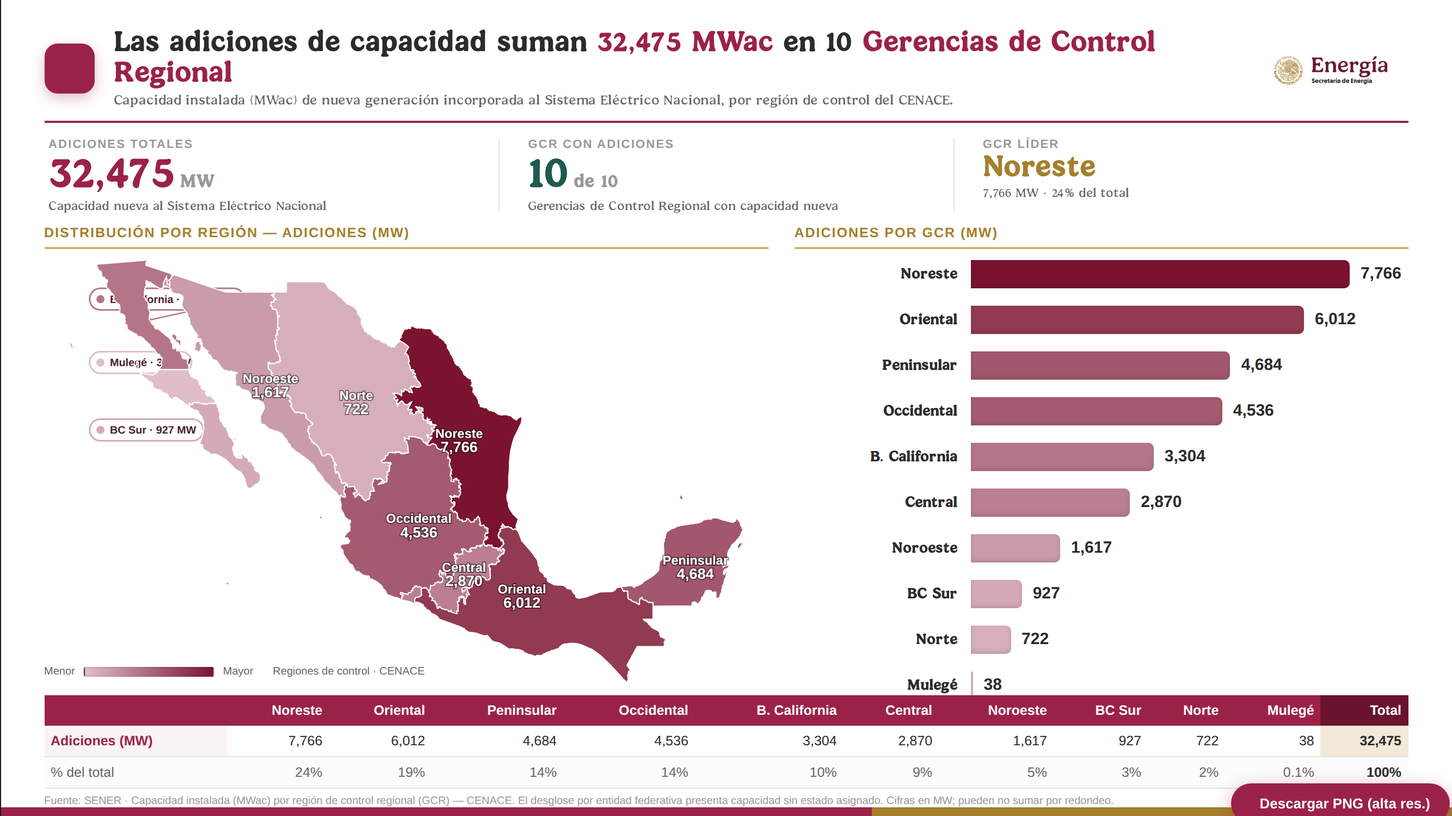
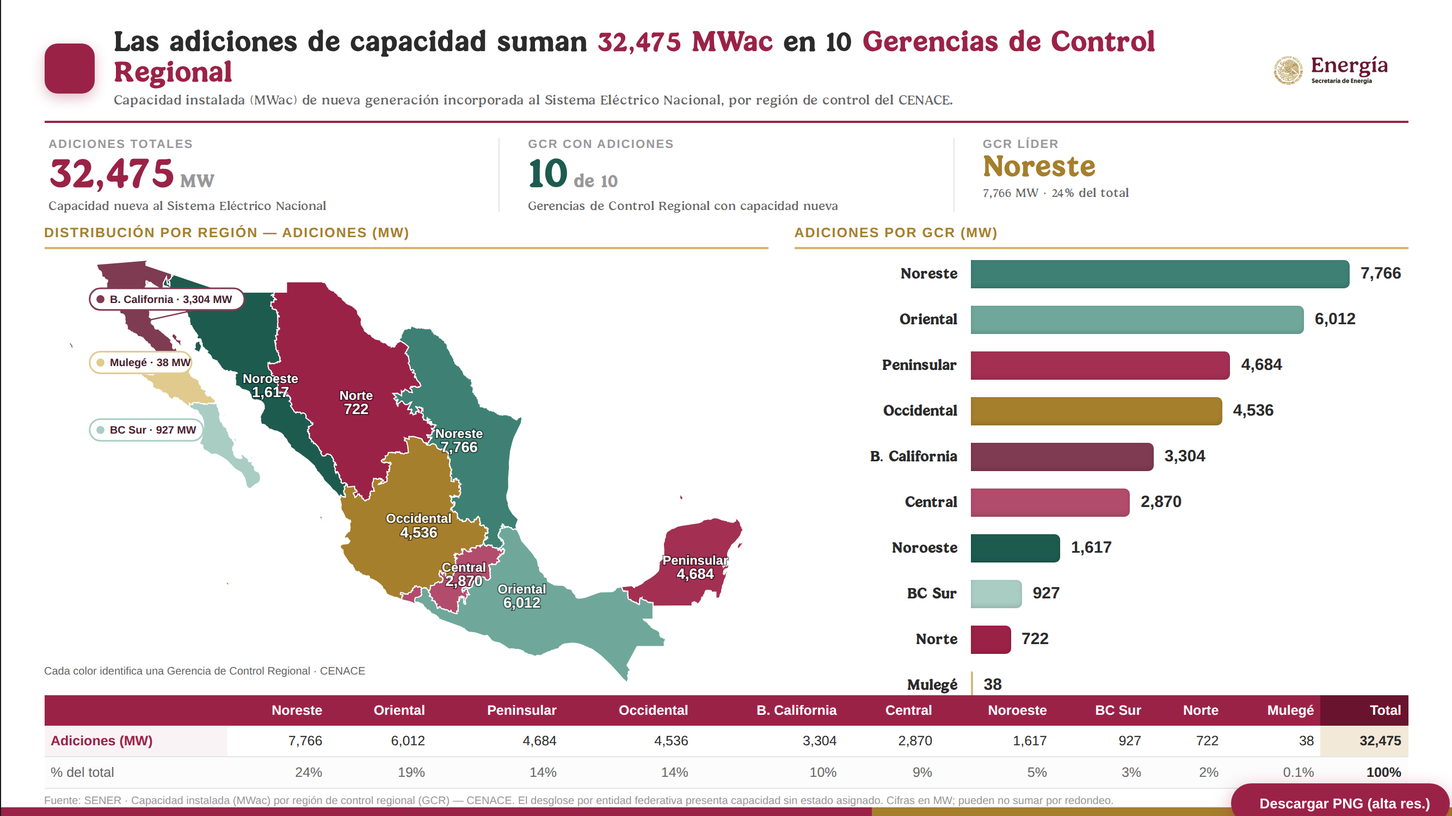
Mapa GCR: colores de expansión renovables + chips al frente
- Colores categóricos fijos por Gerencia (mismos del mapa de
  EXPANSION-RENOVABLES.html) en mapa y barras, en lugar del degradado.
- Reordena el SVG para que los chips (B. California, Mulegé, BC Sur) se
  dibujen encima de las formas y no queden ocultos.
- Leyenda ajustada a esquema categórico.

Claude-Session: https://claude.ai/code/session_018Fe77w2VGGn9GHfxE4yPpH

diff --git a/ADICIONES-CAPACIDAD-GCR.html b/ADICIONES-CAPACIDAD-GCR.html
@@ -338,11 +338,7 @@
         <div class="panel">
           <div class="panel-title">Distribución por región — Adiciones (MW)</div>
           <div class="map-wrap">
-            <svg viewBox="0 0 1000 626.3" class="cenace-map" xmlns="http://www.w3.org/2000/svg" preserveAspectRatio="xMidYMid meet">
-<line id="ld-bcalifornia" x1="117.8" y1="89.2" x2="259.4" y2="58.0" stroke="#C9CCD1" stroke-width="2"/><circle id="dt-bcalifornia" cx="117.8" cy="89.2" r="3.6" fill="#C9CCD1"/><g pointer-events="none"><rect id="bx-bcalifornia" x="30.0" y="42.0" width="229.4" height="32" rx="16" fill="#ffffff" stroke="#C9CCD1" stroke-width="2.4"/><circle id="sw-bcalifornia" cx="46.0" cy="58.0" r="6" fill="#C9CCD1"/><text id="ct-bcalifornia" x="60.0" y="63.5" font-size="16" font-weight="700" fill="#49222f" font-family="Outfit,sans-serif">B. California · — MW</text></g>
-<line id="ld-mulege" x1="165.5" y1="193.4" x2="181.1" y2="152.0" stroke="#C9CCD1" stroke-width="2"/><circle id="dt-mulege" cx="165.5" cy="193.4" r="3.6" fill="#C9CCD1"/><g pointer-events="none"><rect id="bx-mulege" x="30.0" y="136.0" width="151.1" height="32" rx="16" fill="#ffffff" stroke="#C9CCD1" stroke-width="2.4"/><circle id="sw-mulege" cx="46.0" cy="152.0" r="6" fill="#C9CCD1"/><text id="ct-mulege" x="60.0" y="157.5" font-size="16" font-weight="700" fill="#49222f" font-family="Outfit,sans-serif">Mulegé · — MW</text></g>
-<line id="ld-bcsur" x1="228.1" y1="263.8" x2="198.5" y2="252.0" stroke="#C9CCD1" stroke-width="2"/><circle id="dt-bcsur" cx="228.1" cy="263.8" r="3.6" fill="#C9CCD1"/><g pointer-events="none"><rect id="bx-bcsur" x="30.0" y="236.0" width="168.5" height="32" rx="16" fill="#ffffff" stroke="#C9CCD1" stroke-width="2.4"/><circle id="sw-bcsur" cx="46.0" cy="252.0" r="6" fill="#C9CCD1"/><text id="ct-bcsur" x="60.0" y="257.5" font-size="16" font-weight="700" fill="#49222f" font-family="Outfit,sans-serif">BC Sur · — MW</text></g>
-<path class="region" id="rg-noreste" data-r="Noreste" d="M530.3,274.3 L534.7,274.9 L536.6,273.1 L538.5,272.3 L542.5,273.6 L543.5,274.8 L545.2,278.8 L546.7,279.9 L550.6,281.6 L552.3,280.2 L554.1,281.1 L555.6,281.1 L557.4,284.4 L558.4,283.3 L561.8,286.4 L561.9,288.3 L560.8,292.5 L562.4,292.6 L562.1,294.1 L561.5,294.3 L564.5,295.4 L564.4,296.2 L563.8,296.2 L564.3,297.8 L563.1,303.0 L563.6,303.1 L563.8,304.1 L563.4,305.7 L564.2,305.8 L564.1,306.6 L565.1,307.2 L565.1,309.3 L566.1,311.0 L566.7,310.7 L566.6,312.1 L565.7,312.9 L565.3,315.1 L566.0,315.2 L566.3,317.1 L565.2,316.5 L564.5,320.2 L566.4,322.1 L565.7,328.0 L570.3,329.1 L570.6,328.0 L569.3,328.2 L569.0,325.6 L571.1,325.7 L572.0,324.0 L574.3,324.1 L573.6,326.1 L577.5,326.7 L577.1,327.8 L577.2,330.4 L578.6,330.5 L578.6,331.4 L580.4,332.4 L578.9,333.3 L578.6,334.8 L577.7,334.3 L578.0,335.8 L577.3,335.5 L577.3,337.6 L579.4,337.5 L579.9,340.8 L577.6,342.9 L580.1,344.1 L579.1,348.1 L577.7,350.0 L577.1,351.9 L576.0,350.1 L574.7,351.1 L573.4,349.9 L572.9,350.8 L570.7,348.6 L570.1,349.2 L570.9,351.5 L570.5,352.0 L569.0,350.9 L567.6,351.9 L565.7,349.8 L562.9,349.8 L564.8,350.2 L566.7,354.8 L566.6,355.8 L565.4,356.6 L566.1,358.9 L568.1,360.2 L567.8,360.7 L568.2,360.8 L569.9,358.4 L571.2,359.2 L571.7,360.9 L570.5,361.6 L570.9,362.3 L569.7,362.1 L570.7,364.0 L569.9,364.3 L570.3,364.8 L570.0,365.3 L566.9,367.0 L567.6,367.4 L567.0,368.0 L565.5,368.4 L565.9,368.9 L565.1,370.4 L566.5,370.9 L567.5,370.6 L568.3,372.6 L569.8,374.1 L571.3,372.8 L571.7,373.2 L572.0,372.9 L573.1,374.8 L574.2,374.7 L575.2,376.6 L575.0,378.6 L575.7,380.5 L574.9,380.9 L575.5,381.7 L575.4,382.9 L576.2,382.3 L578.4,384.4 L578.8,385.6 L582.2,385.5 L581.9,386.2 L582.5,386.5 L582.1,387.0 L582.6,388.1 L582.6,387.7 L583.8,388.1 L585.1,387.2 L586.0,387.1 L585.9,387.6 L586.6,387.7 L587.5,387.2 L587.4,386.7 L588.7,385.6 L588.8,383.7 L591.5,384.0 L592.6,386.1 L595.0,388.2 L595.0,388.8 L596.5,389.2 L597.6,388.2 L598.6,388.1 L599.5,388.8 L600.2,386.3 L600.6,386.1 L600.5,384.7 L602.7,385.2 L603.7,384.2 L603.5,382.7 L604.7,382.4 L605.5,380.6 L606.4,380.5 L606.9,382.0 L608.3,383.3 L607.9,385.1 L609.4,390.4 L609.4,391.1 L608.3,391.1 L608.0,392.2 L609.1,392.5 L608.3,392.6 L608.5,392.9 L609.1,393.6 L609.7,393.4 L611.0,394.0 L614.1,392.9 L616.1,397.4 L616.9,397.1 L617.9,398.0 L618.9,398.1 L619.0,397.4 L618.4,396.9 L618.7,397.0 L620.4,398.2 L620.7,399.1 L620.0,400.7 L619.2,400.6 L620.6,403.2 L620.1,403.9 L620.3,405.2 L619.7,405.4 L619.8,404.7 L616.8,404.5 L617.2,405.9 L615.5,408.7 L616.3,409.7 L616.2,410.9 L617.7,411.5 L619.4,410.5 L620.2,412.5 L617.8,413.3 L618.2,414.0 L617.4,414.7 L617.3,413.5 L615.9,413.4 L615.8,415.2 L614.6,415.3 L613.5,419.2 L614.3,419.8 L614.0,420.8 L615.0,420.9 L615.2,421.9 L615.7,422.1 L615.5,423.2 L617.3,424.0 L617.8,423.8 L618.3,424.6 L619.5,423.9 L619.5,423.0 L621.2,422.5 L622.2,423.1 L622.9,422.7 L624.2,423.8 L625.0,423.0 L626.4,423.0 L626.6,425.6 L627.6,426.4 L631.7,427.0 L632.3,427.6 L633.7,426.7 L634.9,429.0 L636.0,427.6 L638.3,427.9 L638.2,426.5 L639.9,426.4 L641.7,423.2 L643.5,422.4 L643.6,421.4 L644.3,421.0 L644.3,420.2 L643.3,419.8 L643.7,419.7 L643.0,417.7 L643.3,416.4 L641.7,414.7 L641.2,416.6 L640.1,416.7 L639.8,415.9 L640.2,414.4 L639.2,414.0 L639.8,412.9 L639.4,412.4 L637.6,412.5 L637.7,411.8 L636.5,411.8 L636.1,410.6 L636.8,409.9 L636.0,409.8 L635.5,408.2 L636.0,407.1 L636.9,406.6 L636.4,405.8 L636.7,405.0 L637.2,405.1 L637.6,403.2 L638.0,402.5 L638.8,402.9 L639.1,402.3 L639.2,400.7 L638.1,399.7 L640.4,398.0 L642.5,398.0 L643.0,397.6 L641.7,396.4 L642.2,395.7 L640.3,395.1 L641.1,394.1 L641.7,394.2 L641.8,391.6 L643.6,392.7 L643.9,395.0 L644.8,394.7 L645.9,395.5 L646.1,396.4 L645.1,396.3 L645.2,397.2 L646.6,396.8 L647.8,395.4 L648.5,395.9 L649.4,395.6 L649.5,396.1 L650.4,395.3 L653.2,397.0 L655.4,397.3 L655.6,398.1 L657.6,400.0 L660.7,398.8 L662.4,399.9 L663.2,399.0 L664.0,400.2 L662.3,396.2 L662.2,393.5 L665.0,386.0 L665.1,384.1 L657.7,377.0 L652.4,368.6 L650.6,362.9 L650.7,360.1 L648.8,355.1 L648.4,349.2 L651.3,338.3 L651.2,322.5 L652.4,308.1 L652.2,300.9 L654.1,282.9 L657.2,270.5 L659.4,263.5 L669.8,242.1 L670.8,236.4 L670.9,232.9 L669.9,232.6 L667.7,233.2 L666.5,232.8 L666.7,233.6 L665.0,234.2 L664.5,233.8 L663.6,234.5 L664.2,235.2 L663.7,235.5 L664.1,235.6 L663.7,236.9 L662.7,237.0 L662.5,236.1 L662.1,236.9 L661.2,236.3 L661.1,235.4 L659.8,235.5 L659.7,234.9 L659.0,235.3 L658.5,233.8 L657.1,233.7 L657.6,233.0 L657.2,233.4 L657.1,232.7 L656.5,232.9 L655.4,231.7 L656.0,231.4 L655.0,231.1 L655.3,230.6 L654.4,230.7 L654.6,230.1 L653.6,230.3 L653.6,230.7 L653.1,230.1 L652.8,230.6 L651.5,230.5 L651.2,229.7 L650.9,230.4 L650.2,229.3 L649.2,229.8 L648.3,229.5 L648.3,229.0 L648.1,229.4 L646.0,229.1 L646.1,229.5 L645.0,229.6 L644.5,229.1 L643.0,229.1 L642.7,230.0 L641.5,230.1 L641.4,228.9 L641.0,229.4 L639.8,228.8 L639.3,229.7 L638.3,228.8 L638.3,229.3 L637.7,229.5 L634.8,227.8 L635.5,227.3 L634.6,227.2 L634.3,227.8 L633.3,226.6 L633.3,225.7 L632.9,226.2 L632.6,225.5 L631.8,226.0 L630.0,224.6 L629.9,223.7 L628.8,223.8 L628.7,224.5 L628.6,224.1 L627.9,224.2 L628.1,223.7 L627.4,223.8 L627.4,223.3 L627.1,223.6 L626.4,222.8 L626.7,223.2 L626.2,223.7 L625.5,222.6 L624.5,222.9 L624.3,222.4 L623.9,223.1 L622.8,223.3 L622.5,222.4 L621.2,222.0 L621.7,221.5 L620.2,221.2 L620.1,220.8 L620.7,220.8 L620.2,220.0 L619.1,220.0 L618.5,218.7 L615.6,219.2 L614.7,217.8 L614.2,218.7 L613.2,217.6 L612.0,217.8 L611.2,217.1 L609.7,217.7 L608.8,216.5 L609.5,215.0 L609.0,214.1 L607.0,212.7 L605.8,206.4 L604.8,205.7 L603.9,202.4 L602.0,201.2 L602.1,199.8 L600.2,199.0 L599.9,198.3 L600.5,197.7 L599.3,196.3 L598.3,196.3 L598.1,194.7 L598.8,193.8 L598.4,193.2 L598.9,190.8 L598.4,188.3 L597.8,187.7 L597.0,188.0 L596.8,186.5 L595.4,186.1 L596.5,185.2 L597.0,182.7 L596.7,181.6 L597.3,180.4 L596.8,179.8 L595.7,179.8 L596.2,177.5 L594.9,175.8 L593.9,176.1 L594.2,175.7 L593.6,174.9 L591.7,175.3 L591.3,174.2 L590.6,173.9 L589.9,174.3 L588.2,171.9 L587.2,171.6 L586.8,170.4 L585.9,170.6 L585.5,169.6 L584.7,169.5 L584.7,167.9 L583.8,166.9 L584.2,166.0 L582.7,164.3 L583.0,163.2 L581.1,162.7 L580.3,160.3 L579.1,159.6 L578.1,157.5 L574.2,155.9 L573.9,154.5 L572.7,154.3 L571.5,152.9 L571.8,151.7 L570.0,149.2 L570.2,147.2 L569.2,146.1 L570.3,145.3 L568.6,144.8 L567.8,143.6 L568.2,142.3 L566.7,141.5 L566.7,140.4 L565.0,139.7 L564.8,137.0 L564.0,136.4 L563.6,134.1 L562.7,134.0 L561.8,131.4 L560.6,131.0 L560.9,130.7 L560.3,130.1 L560.4,128.5 L559.6,124.6 L556.4,122.3 L556.6,121.3 L555.6,119.6 L553.1,118.4 L552.8,117.5 L550.8,116.1 L548.9,115.4 L547.3,112.1 L544.6,111.7 L543.4,110.2 L541.1,110.0 L541.6,108.6 L541.4,106.6 L540.8,106.4 L540.1,108.3 L539.6,108.1 L539.7,105.6 L538.3,105.2 L537.9,105.7 L537.6,104.1 L536.1,102.4 L536.6,101.5 L535.1,102.2 L534.6,100.9 L532.3,101.9 L532.1,100.1 L531.3,100.5 L531.1,101.6 L529.4,101.5 L529.0,102.1 L528.4,101.5 L526.9,101.8 L524.8,100.9 L523.9,101.2 L523.4,100.1 L523.2,100.9 L522.4,100.3 L519.9,101.1 L518.5,100.0 L518.0,100.6 L516.6,100.4 L516.1,101.0 L515.5,101.0 L513.2,100.4 L512.1,99.6 L511.8,98.8 L511.5,99.3 L510.6,99.1 L509.9,98.3 L509.4,98.7 L509.3,98.2 L507.7,97.8 L506.2,98.9 L505.5,101.8 L502.3,101.0 L501.4,101.1 L501.5,101.7 L500.4,102.4 L499.8,101.5 L499.6,102.1 L497.8,102.8 L496.4,102.4 L495.7,104.1 L495.8,104.8 L494.3,106.2 L494.4,107.5 L493.5,107.6 L493.4,109.2 L492.2,110.1 L492.4,111.3 L491.7,112.3 L491.4,113.9 L492.1,114.2 L491.0,115.2 L491.2,115.7 L489.8,116.1 L489.1,119.2 L497.5,124.3 L503.0,129.1 L497.6,138.5 L500.3,139.4 L499.7,140.5 L501.7,142.5 L502.3,142.2 L503.9,151.0 L502.2,152.5 L504.7,157.4 L505.6,162.0 L506.7,163.7 L508.8,162.3 L510.9,164.3 L509.7,166.0 L508.2,166.4 L509.3,167.7 L509.9,167.2 L511.4,167.6 L512.8,168.8 L511.4,173.1 L512.0,174.3 L513.4,173.0 L514.9,177.4 L516.2,179.3 L519.6,182.5 L519.4,183.1 L521.0,186.4 L518.6,188.4 L517.4,187.9 L516.6,188.8 L513.8,188.4 L513.1,187.3 L507.7,187.6 L508.4,188.5 L508.1,189.0 L506.2,187.9 L504.7,190.3 L507.2,192.4 L508.4,196.6 L505.3,195.8 L503.7,196.0 L502.4,194.2 L499.7,193.0 L497.5,191.4 L495.8,194.7 L494.7,194.1 L494.2,195.4 L493.0,195.3 L492.2,194.2 L492.5,201.3 L486.5,197.6 L486.5,198.2 L485.3,197.7 L479.4,197.8 L484.7,203.4 L481.0,205.4 L481.3,205.8 L484.6,209.1 L486.1,206.4 L487.2,207.1 L484.9,211.4 L486.0,213.0 L484.9,213.4 L485.4,214.1 L486.2,214.2 L486.5,216.7 L487.1,216.8 L487.4,213.1 L492.4,209.1 L494.0,209.6 L496.3,213.3 L498.1,214.5 L501.7,214.2 L505.6,211.2 L507.1,210.7 L501.9,220.4 L502.4,220.4 L501.7,221.7 L507.0,222.1 L506.9,220.5 L507.7,222.7 L505.2,227.7 L508.6,226.8 L509.3,229.6 L514.0,228.2 L513.3,225.5 L516.7,223.9 L517.5,224.7 L517.5,225.8 L518.9,226.0 L518.3,223.0 L513.0,216.9 L516.6,218.8 L519.3,217.9 L519.6,219.5 L521.6,219.4 L521.8,218.1 L522.3,221.4 L523.7,220.2 L524.2,223.7 L521.8,223.7 L521.0,227.0 L523.7,227.6 L524.9,231.8 L523.5,232.5 L523.6,233.4 L524.9,234.9 L525.4,237.8 L525.5,236.8 L529.6,238.1 L530.8,236.1 L530.3,235.3 L530.6,234.4 L531.7,236.3 L532.9,235.9 L534.2,236.6 L531.0,237.9 L530.7,241.7 L535.2,241.9 L533.1,239.4 L536.8,239.9 L536.1,242.3 L535.0,243.3 L534.4,243.3 L536.3,245.0 L536.5,244.2 L537.8,243.8 L537.8,243.1 L538.8,244.2 L541.9,244.3 L543.5,245.1 L541.5,246.2 L541.3,247.4 L542.2,247.6 L540.9,247.9 L540.8,249.0 L538.8,249.7 L536.6,249.5 L537.7,251.7 L541.3,252.7 L540.8,253.2 L540.4,252.7 L539.3,253.0 L539.4,254.5 L537.6,254.6 L537.1,258.9 L535.9,258.8 L535.6,259.7 L529.8,259.0 L529.7,259.5 L530.5,259.5 L530.3,260.3 L531.7,260.8 L531.3,263.4 L532.2,263.5 L532.4,262.4 L534.8,262.7 L534.8,263.7 L535.8,263.5 L535.7,262.8 L537.3,262.8 L536.8,264.7 L535.4,264.8 L535.1,266.5 L532.5,269.1 L532.7,270.4 L531.2,272.0 L530.9,273.5 L530.0,273.4 L530.3,274.3Z"/>
+            <svg viewBox="0 0 1000 626.3" class="cenace-map" xmlns="http://www.w3.org/2000/svg" preserveAspectRatio="xMidYMid meet"><path class="region" id="rg-noreste" data-r="Noreste" d="M530.3,274.3 L534.7,274.9 L536.6,273.1 L538.5,272.3 L542.5,273.6 L543.5,274.8 L545.2,278.8 L546.7,279.9 L550.6,281.6 L552.3,280.2 L554.1,281.1 L555.6,281.1 L557.4,284.4 L558.4,283.3 L561.8,286.4 L561.9,288.3 L560.8,292.5 L562.4,292.6 L562.1,294.1 L561.5,294.3 L564.5,295.4 L564.4,296.2 L563.8,296.2 L564.3,297.8 L563.1,303.0 L563.6,303.1 L563.8,304.1 L563.4,305.7 L564.2,305.8 L564.1,306.6 L565.1,307.2 L565.1,309.3 L566.1,311.0 L566.7,310.7 L566.6,312.1 L565.7,312.9 L565.3,315.1 L566.0,315.2 L566.3,317.1 L565.2,316.5 L564.5,320.2 L566.4,322.1 L565.7,328.0 L570.3,329.1 L570.6,328.0 L569.3,328.2 L569.0,325.6 L571.1,325.7 L572.0,324.0 L574.3,324.1 L573.6,326.1 L577.5,326.7 L577.1,327.8 L577.2,330.4 L578.6,330.5 L578.6,331.4 L580.4,332.4 L578.9,333.3 L578.6,334.8 L577.7,334.3 L578.0,335.8 L577.3,335.5 L577.3,337.6 L579.4,337.5 L579.9,340.8 L577.6,342.9 L580.1,344.1 L579.1,348.1 L577.7,350.0 L577.1,351.9 L576.0,350.1 L574.7,351.1 L573.4,349.9 L572.9,350.8 L570.7,348.6 L570.1,349.2 L570.9,351.5 L570.5,352.0 L569.0,350.9 L567.6,351.9 L565.7,349.8 L562.9,349.8 L564.8,350.2 L566.7,354.8 L566.6,355.8 L565.4,356.6 L566.1,358.9 L568.1,360.2 L567.8,360.7 L568.2,360.8 L569.9,358.4 L571.2,359.2 L571.7,360.9 L570.5,361.6 L570.9,362.3 L569.7,362.1 L570.7,364.0 L569.9,364.3 L570.3,364.8 L570.0,365.3 L566.9,367.0 L567.6,367.4 L567.0,368.0 L565.5,368.4 L565.9,368.9 L565.1,370.4 L566.5,370.9 L567.5,370.6 L568.3,372.6 L569.8,374.1 L571.3,372.8 L571.7,373.2 L572.0,372.9 L573.1,374.8 L574.2,374.7 L575.2,376.6 L575.0,378.6 L575.7,380.5 L574.9,380.9 L575.5,381.7 L575.4,382.9 L576.2,382.3 L578.4,384.4 L578.8,385.6 L582.2,385.5 L581.9,386.2 L582.5,386.5 L582.1,387.0 L582.6,388.1 L582.6,387.7 L583.8,388.1 L585.1,387.2 L586.0,387.1 L585.9,387.6 L586.6,387.7 L587.5,387.2 L587.4,386.7 L588.7,385.6 L588.8,383.7 L591.5,384.0 L592.6,386.1 L595.0,388.2 L595.0,388.8 L596.5,389.2 L597.6,388.2 L598.6,388.1 L599.5,388.8 L600.2,386.3 L600.6,386.1 L600.5,384.7 L602.7,385.2 L603.7,384.2 L603.5,382.7 L604.7,382.4 L605.5,380.6 L606.4,380.5 L606.9,382.0 L608.3,383.3 L607.9,385.1 L609.4,390.4 L609.4,391.1 L608.3,391.1 L608.0,392.2 L609.1,392.5 L608.3,392.6 L608.5,392.9 L609.1,393.6 L609.7,393.4 L611.0,394.0 L614.1,392.9 L616.1,397.4 L616.9,397.1 L617.9,398.0 L618.9,398.1 L619.0,397.4 L618.4,396.9 L618.7,397.0 L620.4,398.2 L620.7,399.1 L620.0,400.7 L619.2,400.6 L620.6,403.2 L620.1,403.9 L620.3,405.2 L619.7,405.4 L619.8,404.7 L616.8,404.5 L617.2,405.9 L615.5,408.7 L616.3,409.7 L616.2,410.9 L617.7,411.5 L619.4,410.5 L620.2,412.5 L617.8,413.3 L618.2,414.0 L617.4,414.7 L617.3,413.5 L615.9,413.4 L615.8,415.2 L614.6,415.3 L613.5,419.2 L614.3,419.8 L614.0,420.8 L615.0,420.9 L615.2,421.9 L615.7,422.1 L615.5,423.2 L617.3,424.0 L617.8,423.8 L618.3,424.6 L619.5,423.9 L619.5,423.0 L621.2,422.5 L622.2,423.1 L622.9,422.7 L624.2,423.8 L625.0,423.0 L626.4,423.0 L626.6,425.6 L627.6,426.4 L631.7,427.0 L632.3,427.6 L633.7,426.7 L634.9,429.0 L636.0,427.6 L638.3,427.9 L638.2,426.5 L639.9,426.4 L641.7,423.2 L643.5,422.4 L643.6,421.4 L644.3,421.0 L644.3,420.2 L643.3,419.8 L643.7,419.7 L643.0,417.7 L643.3,416.4 L641.7,414.7 L641.2,416.6 L640.1,416.7 L639.8,415.9 L640.2,414.4 L639.2,414.0 L639.8,412.9 L639.4,412.4 L637.6,412.5 L637.7,411.8 L636.5,411.8 L636.1,410.6 L636.8,409.9 L636.0,409.8 L635.5,408.2 L636.0,407.1 L636.9,406.6 L636.4,405.8 L636.7,405.0 L637.2,405.1 L637.6,403.2 L638.0,402.5 L638.8,402.9 L639.1,402.3 L639.2,400.7 L638.1,399.7 L640.4,398.0 L642.5,398.0 L643.0,397.6 L641.7,396.4 L642.2,395.7 L640.3,395.1 L641.1,394.1 L641.7,394.2 L641.8,391.6 L643.6,392.7 L643.9,395.0 L644.8,394.7 L645.9,395.5 L646.1,396.4 L645.1,396.3 L645.2,397.2 L646.6,396.8 L647.8,395.4 L648.5,395.9 L649.4,395.6 L649.5,396.1 L650.4,395.3 L653.2,397.0 L655.4,397.3 L655.6,398.1 L657.6,400.0 L660.7,398.8 L662.4,399.9 L663.2,399.0 L664.0,400.2 L662.3,396.2 L662.2,393.5 L665.0,386.0 L665.1,384.1 L657.7,377.0 L652.4,368.6 L650.6,362.9 L650.7,360.1 L648.8,355.1 L648.4,349.2 L651.3,338.3 L651.2,322.5 L652.4,308.1 L652.2,300.9 L654.1,282.9 L657.2,270.5 L659.4,263.5 L669.8,242.1 L670.8,236.4 L670.9,232.9 L669.9,232.6 L667.7,233.2 L666.5,232.8 L666.7,233.6 L665.0,234.2 L664.5,233.8 L663.6,234.5 L664.2,235.2 L663.7,235.5 L664.1,235.6 L663.7,236.9 L662.7,237.0 L662.5,236.1 L662.1,236.9 L661.2,236.3 L661.1,235.4 L659.8,235.5 L659.7,234.9 L659.0,235.3 L658.5,233.8 L657.1,233.7 L657.6,233.0 L657.2,233.4 L657.1,232.7 L656.5,232.9 L655.4,231.7 L656.0,231.4 L655.0,231.1 L655.3,230.6 L654.4,230.7 L654.6,230.1 L653.6,230.3 L653.6,230.7 L653.1,230.1 L652.8,230.6 L651.5,230.5 L651.2,229.7 L650.9,230.4 L650.2,229.3 L649.2,229.8 L648.3,229.5 L648.3,229.0 L648.1,229.4 L646.0,229.1 L646.1,229.5 L645.0,229.6 L644.5,229.1 L643.0,229.1 L642.7,230.0 L641.5,230.1 L641.4,228.9 L641.0,229.4 L639.8,228.8 L639.3,229.7 L638.3,228.8 L638.3,229.3 L637.7,229.5 L634.8,227.8 L635.5,227.3 L634.6,227.2 L634.3,227.8 L633.3,226.6 L633.3,225.7 L632.9,226.2 L632.6,225.5 L631.8,226.0 L630.0,224.6 L629.9,223.7 L628.8,223.8 L628.7,224.5 L628.6,224.1 L627.9,224.2 L628.1,223.7 L627.4,223.8 L627.4,223.3 L627.1,223.6 L626.4,222.8 L626.7,223.2 L626.2,223.7 L625.5,222.6 L624.5,222.9 L624.3,222.4 L623.9,223.1 L622.8,223.3 L622.5,222.4 L621.2,222.0 L621.7,221.5 L620.2,221.2 L620.1,220.8 L620.7,220.8 L620.2,220.0 L619.1,220.0 L618.5,218.7 L615.6,219.2 L614.7,217.8 L614.2,218.7 L613.2,217.6 L612.0,217.8 L611.2,217.1 L609.7,217.7 L608.8,216.5 L609.5,215.0 L609.0,214.1 L607.0,212.7 L605.8,206.4 L604.8,205.7 L603.9,202.4 L602.0,201.2 L602.1,199.8 L600.2,199.0 L599.9,198.3 L600.5,197.7 L599.3,196.3 L598.3,196.3 L598.1,194.7 L598.8,193.8 L598.4,193.2 L598.9,190.8 L598.4,188.3 L597.8,187.7 L597.0,188.0 L596.8,186.5 L595.4,186.1 L596.5,185.2 L597.0,182.7 L596.7,181.6 L597.3,180.4 L596.8,179.8 L595.7,179.8 L596.2,177.5 L594.9,175.8 L593.9,176.1 L594.2,175.7 L593.6,174.9 L591.7,175.3 L591.3,174.2 L590.6,173.9 L589.9,174.3 L588.2,171.9 L587.2,171.6 L586.8,170.4 L585.9,170.6 L585.5,169.6 L584.7,169.5 L584.7,167.9 L583.8,166.9 L584.2,166.0 L582.7,164.3 L583.0,163.2 L581.1,162.7 L580.3,160.3 L579.1,159.6 L578.1,157.5 L574.2,155.9 L573.9,154.5 L572.7,154.3 L571.5,152.9 L571.8,151.7 L570.0,149.2 L570.2,147.2 L569.2,146.1 L570.3,145.3 L568.6,144.8 L567.8,143.6 L568.2,142.3 L566.7,141.5 L566.7,140.4 L565.0,139.7 L564.8,137.0 L564.0,136.4 L563.6,134.1 L562.7,134.0 L561.8,131.4 L560.6,131.0 L560.9,130.7 L560.3,130.1 L560.4,128.5 L559.6,124.6 L556.4,122.3 L556.6,121.3 L555.6,119.6 L553.1,118.4 L552.8,117.5 L550.8,116.1 L548.9,115.4 L547.3,112.1 L544.6,111.7 L543.4,110.2 L541.1,110.0 L541.6,108.6 L541.4,106.6 L540.8,106.4 L540.1,108.3 L539.6,108.1 L539.7,105.6 L538.3,105.2 L537.9,105.7 L537.6,104.1 L536.1,102.4 L536.6,101.5 L535.1,102.2 L534.6,100.9 L532.3,101.9 L532.1,100.1 L531.3,100.5 L531.1,101.6 L529.4,101.5 L529.0,102.1 L528.4,101.5 L526.9,101.8 L524.8,100.9 L523.9,101.2 L523.4,100.1 L523.2,100.9 L522.4,100.3 L519.9,101.1 L518.5,100.0 L518.0,100.6 L516.6,100.4 L516.1,101.0 L515.5,101.0 L513.2,100.4 L512.1,99.6 L511.8,98.8 L511.5,99.3 L510.6,99.1 L509.9,98.3 L509.4,98.7 L509.3,98.2 L507.7,97.8 L506.2,98.9 L505.5,101.8 L502.3,101.0 L501.4,101.1 L501.5,101.7 L500.4,102.4 L499.8,101.5 L499.6,102.1 L497.8,102.8 L496.4,102.4 L495.7,104.1 L495.8,104.8 L494.3,106.2 L494.4,107.5 L493.5,107.6 L493.4,109.2 L492.2,110.1 L492.4,111.3 L491.7,112.3 L491.4,113.9 L492.1,114.2 L491.0,115.2 L491.2,115.7 L489.8,116.1 L489.1,119.2 L497.5,124.3 L503.0,129.1 L497.6,138.5 L500.3,139.4 L499.7,140.5 L501.7,142.5 L502.3,142.2 L503.9,151.0 L502.2,152.5 L504.7,157.4 L505.6,162.0 L506.7,163.7 L508.8,162.3 L510.9,164.3 L509.7,166.0 L508.2,166.4 L509.3,167.7 L509.9,167.2 L511.4,167.6 L512.8,168.8 L511.4,173.1 L512.0,174.3 L513.4,173.0 L514.9,177.4 L516.2,179.3 L519.6,182.5 L519.4,183.1 L521.0,186.4 L518.6,188.4 L517.4,187.9 L516.6,188.8 L513.8,188.4 L513.1,187.3 L507.7,187.6 L508.4,188.5 L508.1,189.0 L506.2,187.9 L504.7,190.3 L507.2,192.4 L508.4,196.6 L505.3,195.8 L503.7,196.0 L502.4,194.2 L499.7,193.0 L497.5,191.4 L495.8,194.7 L494.7,194.1 L494.2,195.4 L493.0,195.3 L492.2,194.2 L492.5,201.3 L486.5,197.6 L486.5,198.2 L485.3,197.7 L479.4,197.8 L484.7,203.4 L481.0,205.4 L481.3,205.8 L484.6,209.1 L486.1,206.4 L487.2,207.1 L484.9,211.4 L486.0,213.0 L484.9,213.4 L485.4,214.1 L486.2,214.2 L486.5,216.7 L487.1,216.8 L487.4,213.1 L492.4,209.1 L494.0,209.6 L496.3,213.3 L498.1,214.5 L501.7,214.2 L505.6,211.2 L507.1,210.7 L501.9,220.4 L502.4,220.4 L501.7,221.7 L507.0,222.1 L506.9,220.5 L507.7,222.7 L505.2,227.7 L508.6,226.8 L509.3,229.6 L514.0,228.2 L513.3,225.5 L516.7,223.9 L517.5,224.7 L517.5,225.8 L518.9,226.0 L518.3,223.0 L513.0,216.9 L516.6,218.8 L519.3,217.9 L519.6,219.5 L521.6,219.4 L521.8,218.1 L522.3,221.4 L523.7,220.2 L524.2,223.7 L521.8,223.7 L521.0,227.0 L523.7,227.6 L524.9,231.8 L523.5,232.5 L523.6,233.4 L524.9,234.9 L525.4,237.8 L525.5,236.8 L529.6,238.1 L530.8,236.1 L530.3,235.3 L530.6,234.4 L531.7,236.3 L532.9,235.9 L534.2,236.6 L531.0,237.9 L530.7,241.7 L535.2,241.9 L533.1,239.4 L536.8,239.9 L536.1,242.3 L535.0,243.3 L534.4,243.3 L536.3,245.0 L536.5,244.2 L537.8,243.8 L537.8,243.1 L538.8,244.2 L541.9,244.3 L543.5,245.1 L541.5,246.2 L541.3,247.4 L542.2,247.6 L540.9,247.9 L540.8,249.0 L538.8,249.7 L536.6,249.5 L537.7,251.7 L541.3,252.7 L540.8,253.2 L540.4,252.7 L539.3,253.0 L539.4,254.5 L537.6,254.6 L537.1,258.9 L535.9,258.8 L535.6,259.7 L529.8,259.0 L529.7,259.5 L530.5,259.5 L530.3,260.3 L531.7,260.8 L531.3,263.4 L532.2,263.5 L532.4,262.4 L534.8,262.7 L534.8,263.7 L535.8,263.5 L535.7,262.8 L537.3,262.8 L536.8,264.7 L535.4,264.8 L535.1,266.5 L532.5,269.1 L532.7,270.4 L531.2,272.0 L530.9,273.5 L530.0,273.4 L530.3,274.3Z"/>
 <path class="region" id="rg-peninsular" data-r="Peninsular" d="M865.2,513.3 L923.1,513.2 L923.1,509.0 L923.7,507.9 L926.7,506.7 L927.9,507.4 L928.3,508.7 L929.6,508.3 L930.6,510.0 L932.3,510.5 L932.5,509.2 L934.7,507.6 L935.1,505.9 L936.8,504.8 L936.8,503.2 L938.0,501.4 L937.4,500.6 L940.0,499.2 L940.3,496.9 L942.3,494.5 L942.0,494.0 L943.0,491.1 L944.5,489.9 L945.4,490.5 L946.7,489.8 L947.5,490.4 L949.1,490.0 L951.6,490.6 L951.6,492.6 L958.5,492.6 L958.5,501.4 L961.8,501.4 L962.5,502.0 L963.6,500.4 L964.2,500.6 L965.0,495.8 L966.9,492.5 L967.0,489.8 L967.6,488.1 L968.5,482.6 L969.7,481.0 L971.2,474.5 L973.6,469.5 L974.0,465.3 L976.9,461.7 L975.6,461.2 L973.4,462.3 L970.9,466.3 L969.8,465.9 L969.4,464.9 L970.1,463.5 L969.9,462.3 L970.9,459.6 L973.5,457.8 L974.0,457.8 L973.7,459.0 L974.4,458.8 L977.1,456.3 L978.0,451.9 L976.6,450.2 L976.7,451.9 L975.0,452.3 L975.4,452.8 L974.4,453.8 L973.6,453.0 L971.7,453.4 L969.9,455.2 L970.1,454.3 L969.3,454.1 L969.9,453.6 L969.6,452.8 L968.8,453.5 L968.7,452.7 L967.4,451.8 L967.6,449.7 L970.5,448.8 L970.2,450.5 L969.2,450.9 L970.0,451.2 L970.8,448.7 L972.7,445.2 L973.5,444.6 L973.8,445.0 L975.3,444.7 L976.5,442.8 L976.8,441.9 L976.4,441.6 L976.3,439.9 L977.3,441.1 L977.4,441.9 L975.6,444.9 L976.1,445.6 L976.0,444.4 L977.4,442.0 L977.2,440.4 L976.7,440.2 L976.0,438.1 L975.9,435.3 L977.7,430.2 L979.5,427.9 L982.1,422.7 L987.8,417.7 L990.6,413.9 L992.2,412.9 L992.9,411.1 L994.9,408.8 L996.8,403.0 L997.3,402.4 L998.0,402.5 L998.3,400.5 L999.2,399.0 L997.2,398.1 L996.8,393.8 L997.6,391.7 L997.4,389.5 L997.3,390.2 L997.0,389.4 L996.4,389.4 L997.6,391.8 L996.6,392.8 L996.6,395.2 L995.7,394.8 L994.5,389.6 L991.3,384.2 L991.1,384.9 L991.9,385.3 L991.8,386.0 L990.6,384.4 L987.8,383.4 L986.9,384.5 L987.9,385.3 L987.5,387.3 L986.0,387.6 L985.1,388.4 L984.2,388.3 L983.7,389.2 L982.8,388.5 L980.2,388.7 L977.5,387.5 L975.9,387.8 L975.6,386.9 L967.7,385.3 L960.6,382.6 L954.9,382.1 L950.9,384.4 L949.2,384.6 L947.6,384.0 L940.0,385.6 L937.5,388.0 L932.9,389.8 L906.9,393.6 L906.4,391.6 L906.7,393.8 L901.2,395.0 L896.3,397.6 L893.4,398.2 L886.0,403.0 L884.8,404.9 L883.5,408.8 L883.5,411.4 L882.0,413.8 L882.2,416.2 L880.5,420.9 L881.3,431.7 L880.7,432.5 L881.2,434.1 L880.8,435.9 L882.1,439.4 L880.3,442.6 L875.5,446.3 L875.2,447.7 L874.0,449.2 L874.1,450.1 L874.7,450.8 L873.9,453.1 L874.1,456.6 L873.5,460.1 L872.4,461.9 L868.0,466.1 L861.2,471.2 L852.4,476.1 L849.1,479.7 L841.4,483.5 L838.3,484.0 L837.8,485.8 L836.1,485.0 L834.3,482.9 L818.4,484.5 L818.5,485.7 L819.8,487.7 L820.2,490.1 L821.7,490.9 L821.9,491.6 L823.1,490.6 L823.4,491.2 L827.7,491.1 L827.8,497.4 L827.5,497.5 L828.5,499.7 L828.0,500.1 L828.2,501.5 L829.7,503.6 L830.6,503.9 L832.0,503.5 L831.9,504.2 L833.9,505.4 L834.3,506.3 L836.4,506.5 L837.4,507.5 L839.4,507.8 L840.7,509.0 L840.8,508.4 L844.6,511.2 L844.8,510.2 L845.5,509.9 L845.1,508.7 L845.5,503.6 L846.7,502.0 L846.5,501.5 L847.9,501.9 L848.7,501.0 L848.5,502.4 L848.9,502.9 L852.7,504.7 L854.5,504.7 L857.9,507.8 L860.2,507.8 L860.0,508.2 L860.6,508.3 L860.7,507.5 L861.2,507.7 L861.0,508.2 L865.2,508.2 L865.2,513.3ZM905.0,348.2 L903.8,348.3 L903.6,349.2 L902.9,349.4 L903.0,350.1 L903.1,349.5 L903.8,349.4 L903.9,348.5 L904.1,350.2 L904.3,348.9 L905.2,350.6 L904.8,352.3 L903.6,351.5 L903.9,353.1 L904.3,352.9 L905.6,354.0 L904.4,354.0 L905.4,354.7 L905.6,355.6 L906.1,355.0 L907.1,355.6 L906.7,355.9 L907.6,355.5 L907.0,355.8 L907.6,356.0 L907.1,356.4 L907.8,356.3 L909.2,354.6 L909.6,352.0 L906.7,348.6 L905.0,348.2ZM991.8,421.6 L990.5,423.8 L990.2,425.4 L990.5,427.7 L991.3,428.7 L994.2,426.1 L996.3,422.9 L997.4,422.1 L999.7,417.7 L996.1,419.5 L996.3,419.1 L995.1,419.5 L994.2,418.5 L993.3,419.1 L991.8,421.6ZM987.4,383.2 L989.5,383.4 L987.7,382.7 L986.4,383.9 L983.1,385.0 L980.4,384.1 L978.5,385.9 L978.8,386.2 L980.7,384.7 L981.0,385.5 L981.9,385.5 L981.9,386.0 L982.4,385.4 L984.1,385.6 L986.8,384.1 L987.4,383.2Z"/>
 <path class="region" id="rg-oriental" data-r="Oriental" d="M513.4,509.0 L514.5,507.5 L516.5,507.3 L523.3,510.5 L524.5,511.6 L525.7,514.1 L528.2,516.1 L528.8,517.2 L528.8,518.4 L530.1,518.6 L530.5,519.5 L531.5,519.7 L531.8,519.3 L531.9,520.3 L533.0,519.8 L533.8,520.3 L535.3,521.9 L534.9,523.2 L542.8,526.6 L547.5,530.7 L547.4,532.2 L581.1,544.5 L583.2,546.1 L583.4,547.2 L584.0,547.2 L583.6,546.7 L584.1,546.3 L585.1,546.3 L585.5,547.0 L584.7,547.7 L586.0,548.1 L585.3,548.5 L586.6,548.6 L591.7,551.8 L601.9,553.1 L615.3,557.4 L616.9,557.6 L617.4,556.9 L619.6,556.7 L626.6,565.0 L630.8,566.5 L637.5,567.9 L645.1,572.3 L650.6,576.4 L654.0,577.1 L654.9,576.5 L658.8,576.8 L661.8,577.7 L664.9,577.6 L668.9,578.5 L673.5,580.6 L673.9,581.7 L674.9,582.5 L677.6,583.3 L679.9,584.7 L684.9,585.5 L689.5,587.5 L691.3,587.6 L693.6,586.2 L699.5,586.7 L700.6,585.7 L703.0,584.8 L703.2,584.0 L704.7,583.8 L708.5,581.6 L714.1,580.2 L714.4,579.3 L717.7,578.8 L720.6,577.2 L724.8,576.6 L725.2,575.8 L726.9,575.1 L726.6,574.2 L727.4,573.1 L729.8,572.1 L729.7,571.6 L730.8,571.2 L731.2,570.3 L733.8,570.0 L734.1,569.3 L736.4,569.5 L742.9,568.4 L748.0,568.5 L755.0,569.5 L761.5,571.5 L771.5,576.3 L772.8,576.4 L775.2,577.5 L787.1,586.3 L802.1,600.4 L820.3,620.7 L826.1,626.3 L827.5,624.7 L827.6,623.1 L828.6,621.8 L828.6,619.9 L827.9,619.0 L828.2,618.0 L827.4,616.1 L828.9,614.1 L828.5,610.7 L829.2,609.7 L830.5,609.5 L831.4,607.8 L826.6,601.2 L841.7,573.2 L882.4,573.2 L882.9,572.2 L882.0,572.6 L881.9,571.9 L882.1,571.5 L882.8,571.7 L882.8,571.1 L882.1,570.7 L882.9,570.2 L881.9,568.6 L882.8,567.7 L882.0,567.1 L883.0,566.9 L882.5,565.3 L883.4,565.2 L883.4,564.4 L884.3,564.1 L883.7,563.4 L883.4,563.9 L883.5,563.2 L884.7,563.1 L883.7,562.3 L883.9,561.5 L883.4,561.9 L883.1,561.2 L881.0,561.2 L881.1,559.9 L880.6,560.1 L880.1,559.6 L879.7,560.0 L879.1,559.2 L877.8,559.6 L877.6,558.9 L876.3,559.2 L877.2,558.5 L876.9,557.8 L876.0,557.9 L875.9,556.5 L876.6,555.8 L876.1,555.3 L876.0,555.8 L875.3,555.7 L875.7,555.3 L875.6,553.8 L873.8,550.7 L871.0,549.0 L871.0,548.3 L869.4,548.3 L868.6,547.4 L867.3,547.5 L866.9,546.2 L865.6,546.0 L866.2,545.3 L865.8,544.7 L865.3,544.9 L865.2,546.0 L864.6,545.3 L862.7,544.7 L862.8,543.9 L861.0,542.1 L860.9,541.3 L859.2,540.8 L857.7,538.1 L856.3,537.5 L856.4,535.5 L854.5,535.1 L853.8,535.8 L853.6,534.8 L851.6,534.1 L851.1,533.3 L850.9,532.7 L865.2,532.7 L865.2,508.2 L861.0,508.2 L861.2,507.7 L860.7,507.5 L860.6,508.3 L860.0,508.2 L860.2,507.8 L857.9,507.8 L854.5,504.7 L852.7,504.7 L848.9,502.9 L848.5,502.4 L848.7,501.0 L847.9,501.9 L846.5,501.5 L846.7,502.0 L845.5,503.6 L845.1,508.7 L845.5,509.9 L844.8,510.2 L844.6,511.2 L840.8,508.4 L840.7,509.0 L839.4,507.8 L837.4,507.5 L836.4,506.5 L834.3,506.3 L833.9,505.4 L831.9,504.2 L832.0,503.5 L829.8,503.7 L828.2,501.5 L828.0,500.1 L828.5,499.7 L827.5,497.5 L827.8,497.4 L827.7,491.1 L823.4,491.2 L823.1,490.6 L821.9,491.6 L821.7,490.9 L820.2,490.1 L819.8,487.7 L818.5,485.7 L818.4,484.5 L813.5,485.8 L811.5,485.6 L808.7,489.7 L804.7,491.7 L788.2,492.1 L783.2,493.4 L766.0,499.6 L760.9,500.9 L755.1,501.7 L752.4,501.0 L751.0,499.8 L750.5,497.0 L746.9,493.3 L744.4,488.4 L737.5,487.2 L736.1,484.8 L734.7,484.4 L732.6,482.5 L719.2,481.9 L710.2,477.3 L708.9,475.7 L707.8,470.5 L705.8,470.5 L704.5,469.8 L703.7,468.1 L704.1,467.2 L702.6,465.2 L703.1,465.1 L701.7,464.8 L701.3,463.8 L698.9,462.6 L697.5,461.0 L696.9,458.2 L697.2,456.0 L695.2,453.1 L694.2,446.7 L692.9,443.3 L689.9,440.0 L688.9,437.9 L684.6,432.3 L670.3,415.9 L668.3,409.5 L663.3,399.0 L662.4,399.9 L661.2,398.9 L660.2,398.8 L657.6,400.0 L655.6,398.1 L655.4,397.3 L653.2,397.0 L650.4,395.3 L649.5,396.1 L649.4,395.6 L648.5,395.9 L647.8,395.4 L646.6,396.8 L645.2,397.2 L645.1,396.3 L646.1,396.4 L645.9,395.5 L644.8,394.7 L643.9,395.0 L643.6,392.7 L641.8,391.6 L641.7,394.2 L641.1,394.1 L640.3,395.1 L642.2,395.7 L641.7,396.4 L643.0,397.6 L642.5,398.0 L640.4,398.0 L638.1,399.7 L639.2,400.7 L639.1,402.3 L638.8,402.9 L638.0,402.5 L637.6,403.2 L637.2,405.1 L636.7,405.0 L636.4,405.8 L636.9,406.6 L636.0,407.1 L635.5,408.2 L636.0,409.8 L636.8,409.9 L636.1,410.6 L636.5,411.8 L637.7,411.8 L637.6,412.5 L639.4,412.4 L639.8,412.9 L639.2,414.0 L640.2,414.4 L639.8,415.9 L640.1,416.7 L641.2,416.6 L641.7,414.7 L643.3,416.4 L643.0,417.7 L643.7,419.7 L643.3,419.8 L644.3,420.2 L644.3,421.0 L643.6,421.4 L643.5,422.4 L641.7,423.2 L639.9,426.4 L638.2,426.5 L638.3,427.9 L635.9,427.7 L634.9,429.4 L635.2,430.4 L635.7,430.6 L638.1,429.1 L639.3,430.2 L639.1,430.8 L640.0,432.2 L640.8,431.1 L640.8,429.9 L642.1,428.9 L642.3,427.9 L643.5,428.1 L642.9,429.0 L643.2,429.7 L644.4,429.5 L645.3,430.6 L644.5,432.1 L644.0,432.0 L644.4,432.5 L644.2,433.7 L643.2,434.3 L644.1,434.7 L642.6,436.1 L641.3,436.1 L641.1,434.8 L640.8,436.6 L639.6,437.8 L638.4,436.9 L638.9,438.8 L638.2,439.4 L637.1,439.1 L636.9,439.7 L635.9,439.9 L636.3,440.0 L635.8,440.5 L636.1,440.9 L635.5,440.9 L635.4,441.6 L634.0,443.0 L635.5,443.4 L636.5,445.7 L637.8,446.1 L637.7,446.9 L635.7,447.8 L633.5,447.6 L633.7,448.9 L631.9,451.5 L628.5,451.1 L628.4,451.5 L627.5,451.7 L627.0,450.6 L626.6,451.2 L626.0,450.4 L624.7,451.7 L622.9,451.6 L622.1,452.3 L621.6,453.6 L623.9,457.6 L623.1,457.6 L623.2,459.5 L623.8,460.1 L623.1,460.4 L623.0,461.3 L624.1,463.6 L623.6,464.2 L623.5,466.1 L623.7,468.1 L624.2,468.3 L623.7,469.8 L624.4,471.3 L621.4,474.4 L618.9,474.7 L617.2,474.0 L616.5,472.8 L616.4,471.6 L615.4,471.1 L615.0,470.3 L613.7,470.4 L611.4,469.5 L610.5,470.8 L608.4,470.3 L608.1,469.4 L607.1,471.6 L605.6,473.0 L605.1,473.1 L605.4,472.1 L604.0,472.5 L603.1,471.6 L602.3,471.8 L602.4,474.5 L600.8,476.1 L599.5,476.1 L599.4,476.7 L598.8,476.7 L598.9,478.4 L596.8,482.1 L597.2,483.3 L596.8,484.7 L595.4,484.4 L594.8,485.8 L593.5,485.9 L593.5,486.8 L592.8,486.9 L592.5,486.1 L591.3,486.9 L591.3,486.1 L590.4,485.5 L588.2,485.9 L587.7,484.9 L585.8,485.4 L585.6,486.0 L584.3,485.6 L582.5,486.7 L582.0,487.8 L582.3,488.9 L581.6,489.5 L582.6,490.8 L582.3,492.2 L583.2,492.7 L582.8,491.9 L583.6,491.2 L583.2,490.6 L583.8,490.1 L585.4,490.8 L586.0,491.8 L585.7,490.4 L586.5,489.0 L588.5,487.9 L589.6,488.5 L590.6,490.9 L589.9,492.4 L591.2,492.9 L591.0,493.6 L592.0,494.3 L591.8,495.3 L593.0,496.3 L591.5,496.6 L591.0,495.7 L589.5,496.3 L588.9,495.8 L589.7,498.9 L587.2,502.6 L586.6,506.5 L585.9,506.1 L585.5,506.5 L587.5,508.0 L587.3,510.1 L586.9,510.5 L586.3,510.4 L586.6,509.8 L585.3,509.7 L585.2,507.7 L584.5,507.8 L584.9,505.0 L584.5,504.3 L585.3,501.7 L585.0,501.1 L585.3,499.8 L583.8,499.6 L583.4,500.7 L582.3,501.1 L581.6,500.5 L580.8,501.1 L580.2,499.7 L583.4,499.6 L583.5,499.0 L581.9,498.3 L581.9,499.0 L579.9,498.8 L579.5,499.5 L577.7,499.9 L578.2,500.5 L577.9,501.7 L578.5,502.5 L577.9,502.5 L577.8,503.2 L577.2,503.0 L577.2,503.4 L577.5,504.5 L578.2,504.2 L578.2,505.1 L577.2,505.6 L577.6,506.2 L575.0,506.9 L575.6,507.9 L575.8,510.9 L576.7,512.2 L575.9,512.7 L576.1,513.3 L575.6,513.7 L576.3,514.5 L576.0,518.3 L576.5,519.6 L576.3,520.8 L575.6,520.1 L574.1,520.6 L574.1,523.3 L574.7,524.2 L573.2,524.4 L566.0,521.9 L566.1,520.3 L565.6,519.5 L564.7,520.8 L563.3,521.4 L562.9,520.8 L562.0,520.8 L562.0,520.0 L560.7,519.1 L558.4,518.3 L557.1,518.9 L554.9,517.3 L553.1,517.6 L550.4,515.6 L549.3,513.8 L547.6,514.4 L547.7,515.7 L545.7,516.7 L544.3,511.9 L544.7,511.0 L544.2,510.5 L544.9,510.2 L542.9,509.7 L542.8,508.6 L542.2,508.4 L542.7,506.9 L541.7,506.3 L541.4,505.4 L540.4,505.9 L539.5,505.0 L537.6,504.8 L538.2,504.2 L537.7,502.9 L538.7,502.1 L538.6,501.4 L536.7,499.7 L535.1,499.3 L534.9,498.5 L533.6,498.3 L533.8,497.6 L535.0,497.3 L534.6,496.6 L535.3,496.1 L533.6,493.3 L532.2,492.4 L533.4,490.1 L530.8,489.0 L529.4,486.2 L527.2,486.6 L526.6,485.8 L524.9,486.1 L522.6,487.1 L521.5,488.3 L521.2,490.3 L522.1,491.5 L521.2,493.2 L522.3,496.1 L521.8,496.3 L522.0,497.0 L521.4,497.4 L522.0,497.8 L521.0,497.4 L520.7,498.5 L518.6,498.9 L518.4,499.8 L513.1,500.5 L512.1,502.7 L511.9,505.9 L512.2,507.3 L513.4,507.9 L513.4,509.0Z"/>
 <path class="region" id="rg-central" data-r="Central" d="M533.4,490.1 L532.2,492.4 L533.6,493.3 L535.3,496.1 L534.6,496.6 L535.0,497.3 L533.8,497.6 L533.6,498.3 L534.9,498.5 L535.1,499.3 L536.7,499.7 L538.6,501.4 L538.7,502.1 L537.7,502.9 L538.2,504.2 L537.6,504.8 L539.5,505.0 L540.4,505.9 L541.4,505.4 L541.7,506.3 L542.7,506.9 L542.2,508.4 L542.8,508.6 L542.9,509.7 L544.9,510.2 L544.2,510.5 L544.7,511.0 L544.3,511.9 L545.7,516.7 L547.7,515.7 L547.6,514.4 L549.3,513.8 L550.4,515.6 L553.1,517.6 L554.9,517.3 L557.1,518.9 L558.4,518.3 L560.7,519.1 L562.0,520.0 L562.0,520.8 L562.9,520.8 L563.3,521.4 L564.7,520.8 L565.6,519.5 L566.1,520.3 L566.0,521.9 L573.2,524.4 L574.7,524.2 L574.1,523.3 L574.1,520.6 L575.6,520.1 L576.3,520.8 L576.5,519.6 L576.0,518.3 L576.3,514.5 L575.6,513.7 L576.1,513.3 L575.9,512.7 L576.7,512.2 L575.8,510.9 L575.6,507.9 L575.0,506.9 L577.6,506.2 L577.2,505.6 L578.2,505.1 L578.2,504.2 L577.5,504.5 L577.2,503.4 L577.2,503.0 L577.8,503.2 L577.9,502.5 L578.5,502.5 L577.9,501.7 L578.2,500.5 L577.7,499.9 L579.5,499.5 L579.9,498.8 L581.9,499.0 L581.9,498.3 L583.5,499.0 L583.4,499.6 L580.2,499.7 L580.8,501.1 L581.6,500.5 L582.3,501.1 L583.4,500.7 L583.8,499.6 L585.3,499.8 L585.0,501.1 L585.3,501.7 L584.5,504.3 L584.9,505.0 L584.5,507.8 L585.2,507.7 L585.3,509.7 L586.6,509.8 L586.3,510.4 L586.9,510.5 L587.3,510.1 L587.5,508.0 L585.5,506.5 L585.9,506.1 L586.6,506.5 L587.2,502.6 L589.7,498.9 L588.9,495.8 L589.5,496.3 L591.0,495.7 L591.5,496.6 L593.0,496.3 L591.8,495.3 L592.0,494.3 L591.0,493.6 L591.2,492.9 L589.9,492.4 L590.6,490.9 L589.6,488.5 L588.5,487.9 L586.5,489.0 L585.7,490.4 L586.0,491.8 L585.4,490.8 L583.8,490.1 L583.2,490.6 L583.6,491.2 L582.8,491.9 L583.2,492.7 L582.3,492.2 L582.6,490.8 L581.6,489.5 L582.3,488.9 L582.0,487.8 L582.5,486.7 L584.3,485.6 L585.6,486.0 L585.8,485.4 L587.7,484.9 L588.2,485.9 L590.4,485.5 L591.3,486.1 L591.3,486.9 L592.5,486.1 L592.8,486.9 L593.5,486.8 L593.5,485.9 L594.8,485.8 L595.4,484.4 L596.8,484.7 L597.2,483.3 L596.8,482.1 L598.9,478.4 L598.8,476.7 L599.4,476.7 L599.5,476.1 L600.8,476.1 L602.4,474.5 L602.3,471.8 L603.1,471.6 L604.0,472.5 L605.4,472.1 L605.1,473.1 L605.6,473.0 L607.1,471.6 L608.1,469.4 L608.4,470.3 L610.5,470.8 L611.4,469.5 L613.7,470.4 L615.0,470.3 L615.4,471.1 L616.4,471.6 L616.5,472.8 L617.2,474.0 L618.9,474.7 L621.4,474.4 L624.4,471.3 L623.7,469.8 L624.2,468.3 L623.7,468.1 L623.5,466.1 L623.6,464.2 L624.1,463.6 L623.0,461.3 L623.1,460.4 L623.8,460.1 L623.2,459.5 L623.1,457.6 L623.9,457.6 L621.6,453.6 L621.8,452.8 L622.5,451.8 L624.7,451.7 L626.0,450.4 L626.6,451.2 L627.0,450.6 L627.5,451.7 L628.4,451.5 L628.5,451.1 L631.9,451.5 L633.7,448.9 L633.5,447.6 L635.7,447.8 L637.7,446.9 L637.8,446.1 L636.5,445.7 L635.5,443.4 L634.0,443.0 L635.4,441.6 L635.5,440.9 L636.1,440.9 L635.8,440.5 L636.3,440.0 L635.9,439.9 L636.9,439.7 L637.1,439.1 L638.2,439.4 L638.9,438.8 L638.4,436.9 L639.6,437.8 L640.8,436.6 L641.1,434.8 L641.3,436.1 L642.6,436.1 L644.1,434.7 L643.2,434.3 L644.2,433.7 L644.4,432.5 L644.0,432.2 L644.8,431.7 L645.3,430.1 L644.4,429.5 L643.3,429.9 L642.9,429.0 L643.5,428.1 L642.6,427.7 L642.1,428.9 L640.8,429.9 L640.8,431.1 L640.0,432.2 L639.1,430.8 L639.3,430.2 L638.1,429.1 L636.2,430.5 L635.3,430.5 L634.7,428.0 L633.7,426.7 L632.3,427.6 L631.7,427.0 L627.1,426.1 L626.4,423.0 L625.0,423.0 L624.2,423.8 L622.9,422.7 L622.2,423.1 L621.2,422.5 L619.5,423.0 L619.5,423.9 L618.3,424.6 L617.8,423.8 L617.3,424.0 L615.5,423.2 L615.7,422.1 L615.2,421.9 L615.0,420.9 L614.0,420.8 L614.3,419.8 L613.5,419.9 L613.4,421.1 L612.4,422.3 L611.5,422.6 L611.5,422.1 L610.9,423.6 L609.5,423.1 L609.9,424.0 L609.1,425.3 L608.3,424.0 L603.8,423.7 L603.2,424.0 L603.1,426.2 L602.4,427.4 L601.7,427.4 L601.2,426.3 L599.8,427.0 L597.3,426.5 L595.6,426.8 L594.8,427.9 L595.0,428.5 L593.7,428.7 L594.1,429.2 L593.7,429.9 L594.6,429.8 L594.5,430.8 L596.2,432.0 L595.7,432.4 L593.4,432.2 L592.5,433.0 L591.5,431.8 L591.0,432.4 L589.6,432.2 L585.8,428.3 L585.3,428.8 L583.5,428.2 L582.9,429.4 L583.4,430.7 L582.4,430.6 L582.2,429.4 L581.4,428.7 L581.9,431.1 L583.3,432.6 L582.8,432.4 L582.6,433.9 L583.1,435.8 L581.5,436.0 L581.5,435.5 L580.8,435.4 L578.1,437.4 L575.0,435.2 L573.4,436.7 L573.2,436.0 L572.8,436.7 L573.0,435.5 L572.7,436.0 L572.3,435.6 L572.5,436.5 L570.1,437.0 L570.3,438.1 L571.1,437.7 L572.1,438.2 L572.0,439.4 L570.8,441.4 L571.6,442.0 L572.8,441.2 L573.6,441.3 L573.3,442.3 L574.2,442.4 L573.8,442.6 L574.3,443.0 L574.1,443.7 L572.3,443.9 L572.4,444.6 L571.6,445.6 L572.8,446.7 L572.2,449.3 L573.0,450.6 L573.1,452.8 L574.6,454.1 L574.4,455.3 L575.2,455.5 L574.5,455.5 L574.3,456.8 L574.8,457.3 L574.0,458.2 L571.6,458.9 L571.0,460.0 L571.3,460.7 L570.6,461.9 L570.7,463.7 L569.1,465.8 L568.9,466.6 L569.4,467.1 L568.5,467.5 L567.7,470.2 L564.5,472.1 L563.4,470.5 L562.0,469.9 L562.0,468.9 L560.7,468.6 L560.1,470.1 L560.2,471.6 L559.7,472.2 L558.8,472.0 L558.1,467.7 L557.4,467.0 L557.8,465.3 L557.1,462.6 L555.7,463.6 L554.6,463.6 L554.4,464.8 L553.3,464.9 L553.3,466.2 L552.0,464.8 L553.1,463.7 L551.8,463.6 L550.7,462.3 L551.1,461.2 L549.1,460.6 L548.3,465.0 L547.6,466.0 L548.5,467.2 L549.0,469.2 L549.6,469.7 L551.1,469.3 L553.6,472.0 L553.2,472.4 L553.7,473.7 L553.4,475.1 L552.5,476.4 L552.7,477.3 L551.3,478.2 L550.9,477.6 L550.1,477.7 L549.0,478.7 L547.1,476.8 L545.0,478.0 L545.1,478.4 L541.9,479.2 L541.6,481.2 L540.6,482.1 L538.4,482.8 L535.6,482.6 L535.1,483.3 L535.6,483.9 L535.2,485.5 L534.7,486.1 L535.2,487.1 L533.9,489.2 L534.1,490.0 L533.4,490.1ZM513.4,509.0 L513.4,507.9 L512.2,507.3 L511.9,505.9 L512.1,502.7 L513.1,500.5 L518.4,499.8 L518.6,498.9 L520.7,498.5 L521.0,497.4 L522.0,497.8 L521.4,497.4 L522.0,497.0 L522.1,494.6 L521.2,493.0 L522.1,491.5 L521.2,489.7 L521.4,488.4 L522.3,487.6 L521.5,485.4 L519.7,485.0 L519.1,484.3 L516.7,485.3 L515.2,484.3 L514.7,483.2 L512.1,483.4 L511.8,484.0 L512.4,485.1 L510.9,485.3 L510.5,486.5 L509.3,486.5 L508.6,487.6 L509.2,488.6 L508.6,489.3 L508.8,490.0 L507.5,489.9 L506.8,490.5 L506.7,492.5 L502.7,493.4 L501.7,495.8 L500.5,495.0 L499.1,495.5 L498.3,494.8 L496.6,495.3 L495.9,494.2 L494.2,493.5 L493.2,493.8 L491.7,492.9 L490.7,494.0 L490.4,495.2 L490.9,496.1 L492.1,496.5 L493.9,496.2 L493.9,497.7 L494.4,497.7 L494.2,498.7 L493.6,498.4 L492.5,500.1 L492.9,500.7 L493.0,501.6 L492.4,502.2 L492.9,504.1 L502.7,506.3 L507.9,507.9 L511.7,509.8 L513.4,509.0Z"/>
@@ -359,11 +355,12 @@
 <g class="lbl" pointer-events="none"><text x="518.0" y="390.1" text-anchor="middle" font-size="19" font-weight="700" paint-order="stroke" stroke="rgba(0,0,0,.5)" stroke-width="3" fill="#ffffff" font-family="Outfit,sans-serif">Occidental</text><text id="lv-occidental" x="518.0" y="411.1" text-anchor="middle" font-size="22" font-weight="800" paint-order="stroke" stroke="rgba(0,0,0,.5)" stroke-width="3" fill="#ffffff" font-family="Outfit,sans-serif">—</text></g>
 <g class="lbl" pointer-events="none"><text x="298.2" y="182.5" text-anchor="middle" font-size="19" font-weight="700" paint-order="stroke" stroke="rgba(0,0,0,.5)" stroke-width="3" fill="#ffffff" font-family="Outfit,sans-serif">Noroeste</text><text id="lv-noroeste" x="298.2" y="203.5" text-anchor="middle" font-size="22" font-weight="800" paint-order="stroke" stroke="rgba(0,0,0,.5)" stroke-width="3" fill="#ffffff" font-family="Outfit,sans-serif">—</text></g>
 <g class="lbl" pointer-events="none"><text x="425.2" y="207.5" text-anchor="middle" font-size="19" font-weight="700" paint-order="stroke" stroke="rgba(0,0,0,.5)" stroke-width="3" fill="#ffffff" font-family="Outfit,sans-serif">Norte</text><text id="lv-norte" x="425.2" y="228.5" text-anchor="middle" font-size="22" font-weight="800" paint-order="stroke" stroke="rgba(0,0,0,.5)" stroke-width="3" fill="#ffffff" font-family="Outfit,sans-serif">—</text></g>
-
+<line id="ld-bcalifornia" x1="117.8" y1="89.2" x2="259.4" y2="58.0" stroke="#C9CCD1" stroke-width="2"/><circle id="dt-bcalifornia" cx="117.8" cy="89.2" r="3.6" fill="#C9CCD1"/><g pointer-events="none"><rect id="bx-bcalifornia" x="30.0" y="42.0" width="229.4" height="32" rx="16" fill="#ffffff" stroke="#C9CCD1" stroke-width="2.4"/><circle id="sw-bcalifornia" cx="46.0" cy="58.0" r="6" fill="#C9CCD1"/><text id="ct-bcalifornia" x="60.0" y="63.5" font-size="16" font-weight="700" fill="#49222f" font-family="Outfit,sans-serif">B. California · — MW</text></g>
+<line id="ld-mulege" x1="165.5" y1="193.4" x2="181.1" y2="152.0" stroke="#C9CCD1" stroke-width="2"/><circle id="dt-mulege" cx="165.5" cy="193.4" r="3.6" fill="#C9CCD1"/><g pointer-events="none"><rect id="bx-mulege" x="30.0" y="136.0" width="151.1" height="32" rx="16" fill="#ffffff" stroke="#C9CCD1" stroke-width="2.4"/><circle id="sw-mulege" cx="46.0" cy="152.0" r="6" fill="#C9CCD1"/><text id="ct-mulege" x="60.0" y="157.5" font-size="16" font-weight="700" fill="#49222f" font-family="Outfit,sans-serif">Mulegé · — MW</text></g>
+<line id="ld-bcsur" x1="228.1" y1="263.8" x2="198.5" y2="252.0" stroke="#C9CCD1" stroke-width="2"/><circle id="dt-bcsur" cx="228.1" cy="263.8" r="3.6" fill="#C9CCD1"/><g pointer-events="none"><rect id="bx-bcsur" x="30.0" y="236.0" width="168.5" height="32" rx="16" fill="#ffffff" stroke="#C9CCD1" stroke-width="2.4"/><circle id="sw-bcsur" cx="46.0" cy="252.0" r="6" fill="#C9CCD1"/><text id="ct-bcsur" x="60.0" y="257.5" font-size="16" font-weight="700" fill="#49222f" font-family="Outfit,sans-serif">BC Sur · — MW</text></g>
 </svg>
             <div class="map-legend">
-              <span>Menor</span><span class="bar"></span><span>Mayor</span>
-              <span style="margin-left:10px;">Regiones de control · CENACE</span>
+              <span>Cada color identifica una Gerencia de Control Regional · CENACE</span>
             </div>
             <div class="map-tip" id="mapTip"></div>
           </div>
@@ -433,9 +430,11 @@
 
   (function(){
     const GRIS='#C9CCD1';
-    const PALE=[241,220,227], DEEP=[122,19,47];   // escala secuencial guinda
-    const lerp=(a,b,t)=>Math.round(a+(b-a)*t);
-    const scale=t=>`rgb(${lerp(PALE[0],DEEP[0],t)},${lerp(PALE[1],DEEP[1],t)},${lerp(PALE[2],DEEP[2],t)})`;
+    // Colores fijos por GCR — mismos del mapa de EXPANSION-RENOVABLES.html
+    const COLORS={ noreste:'#3E8174', peninsular:'#A33052', oriental:'#6FA89A', central:'#B24C6C',
+      occidental:'#A57F2C', bcalifornia:'#7E3B52', noroeste:'#1E5B4F', norte:'#9B2247',
+      bcsur:'#A9CDC3', mulege:'#E0CA8E' };
+    const colOf=r=>(r.mw==null||r.mw<=0)?GRIS:(COLORS[r.id]||GRIS);
     const fmt=n=>n==null?'—':n.toLocaleString('es-MX',{maximumFractionDigits:0});
 
     const vals = REGIONS.map(r=>r.mw).filter(v=>v!=null && v>0);
@@ -444,19 +443,13 @@
     const TOTAL_OVERRIDE = 32475;
     const total = vals.length ? (TOTAL_OVERRIDE ?? vals.reduce((a,b)=>a+b,0)) : 0;
     const max = vals.length?Math.max(...vals):0;
-    const min = vals.length?Math.min(...vals):0;
-    const color = v => {
-      if(v==null || v<=0) return GRIS;
-      const norm = max>min ? (v-min)/(max-min) : 1;
-      return scale(0.15 + 0.85*norm);
-    };
     const pct = v => (v==null||!total) ? '—' : (v/total*100).toFixed(v/total*100<1?1:0)+'%';
 
     // ----- MAPA: colorear paths + atributos para tooltip -----
     REGIONS.forEach(r=>{
       const p=document.getElementById('rg-'+r.id);
       if(p){
-        const c=color(r.mw);
+        const c=colOf(r);
         p.setAttribute('fill',c);
         p.setAttribute('stroke','#fff');
         p.setAttribute('stroke-width','1.6');
@@ -472,7 +465,7 @@
       if(ct) ct.textContent=r.name+' · '+fmt(r.mw)+' MW';
       ['bx-','sw-','dt-','ld-'].forEach(pre=>{
         const el=document.getElementById(pre+r.id);
-        if(el){ const attr=(pre==='ld-')?'stroke':(pre==='bx-'?'stroke':'fill'); el.setAttribute(attr, color(r.mw)); }
+        if(el){ const attr=(pre==='ld-')?'stroke':(pre==='bx-'?'stroke':'fill'); el.setAttribute(attr, colOf(r)); }
       });
     });
 
@@ -494,7 +487,7 @@
         <div class="bar-row">
           <div class="b-name">${r.name}</div>
           <div class="bar-track">
-            <div class="bar-fill" style="width:${(r.mw/max*100).toFixed(1)}%;background:${color(r.mw)};"></div>
+            <div class="bar-fill" style="width:${(r.mw/max*100).toFixed(1)}%;background:${colOf(r)};"></div>
             <span class="bar-val">${fmt(r.mw)}</span>
           </div>
         </div>`).join('');
